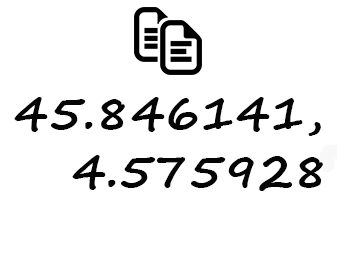
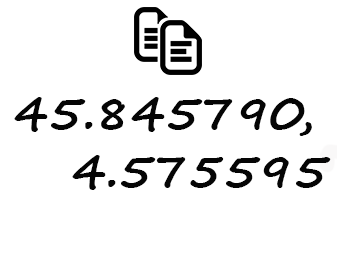
Correction emplacement enigme

Changed region(s): [[0.4748, 0.3692, 0.9496, 0.5231], [0.5638, 0.5846, 0.9792, 0.7385]]

diff --git a/src/js/data.js b/src/js/data.js
@@ -76,7 +76,7 @@
         "C’est gentil de votre part d’être venus essayer, mais seulement moi, Tennessee Johnson, possède les capacités pour trouver ce maudit trésor.",
         "Et lorsque j’aurai mis la main dessus, je serai riche ! En effet, j’ai déjà trouvé des clients fortunés prêt à tout pour l’acheter. <br>Mais surtout je serai enfin reconnu dans le milieu des chasseurs de trésor.",
         "J’ai de nombreuses pistes et vous comprendrez aisément que je ne peux rien vous dire. <br>Mais trêve de bavardage, bonne journée et bonne chance, malgré tout, dans votre vaine tentative.",
-        "<i>Il se retourne et s’éloigne. Vous apercevez un morceau de papier tomber de sa poche. <br>Vous le récupérez et découvrez un étrange message : <br>45.846141,4.575928</i>"
+        "<i>Il se retourne et s’éloigne. Vous apercevez un morceau de papier tomber de sa poche. <br>Vous le récupérez et découvrez un étrange message : <br>45.845790,4.575595</i>"
       ],
     "help": [
         "Ces numéros semblent former des coordonnées GPS. <br>Il semblerait même qu’on puisse les copier en cliquant dessus.",

diff --git a/src/js/event.js b/src/js/event.js
@@ -74,7 +74,7 @@ function next_dialogue(reverse=false) {
       let personageImage = document.getElementById("personageImage");
       personageImage.src = "../../img/message.png";
       personageImage.addEventListener('click',function(){
-        copyToClipboard("45.846141,4.575928");
+        copyToClipboard("45.845790,4.575595");
       });
     }
   }
